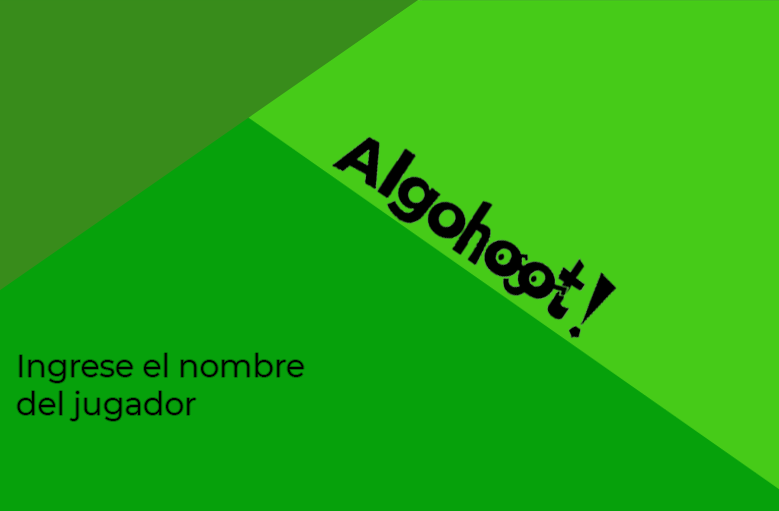
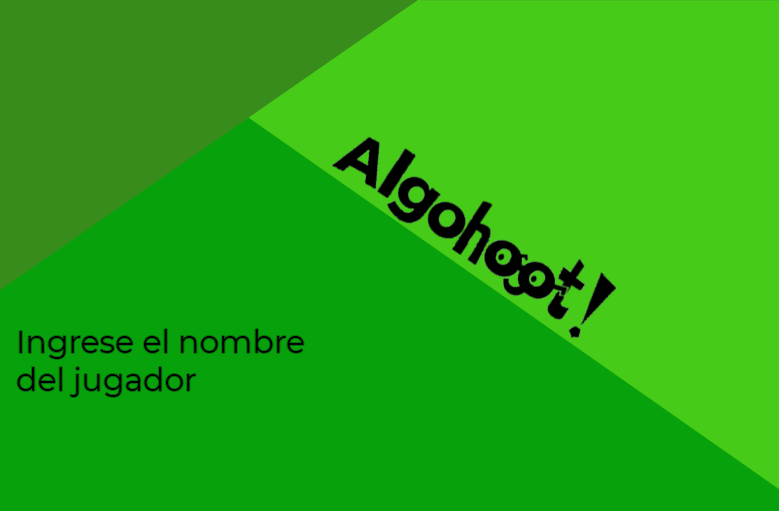
Estilos para las cajas de texto añadidos.

Changed region(s): [[0.0, 0.6458, 0.4005, 0.8219]]

diff --git a/src/main/resources/styles/texto.css b/src/main/resources/styles/texto.css
@@ -1,0 +1,7 @@
+.text-field {
+    -fx-border-color: black;
+    -fx-border-width: 0 0 1 0;
+    -fx-background-color: transparent;
+    -fx-font-size: 20px;
+    -fx-font-weight: bold; /*Negrita*/
+}
